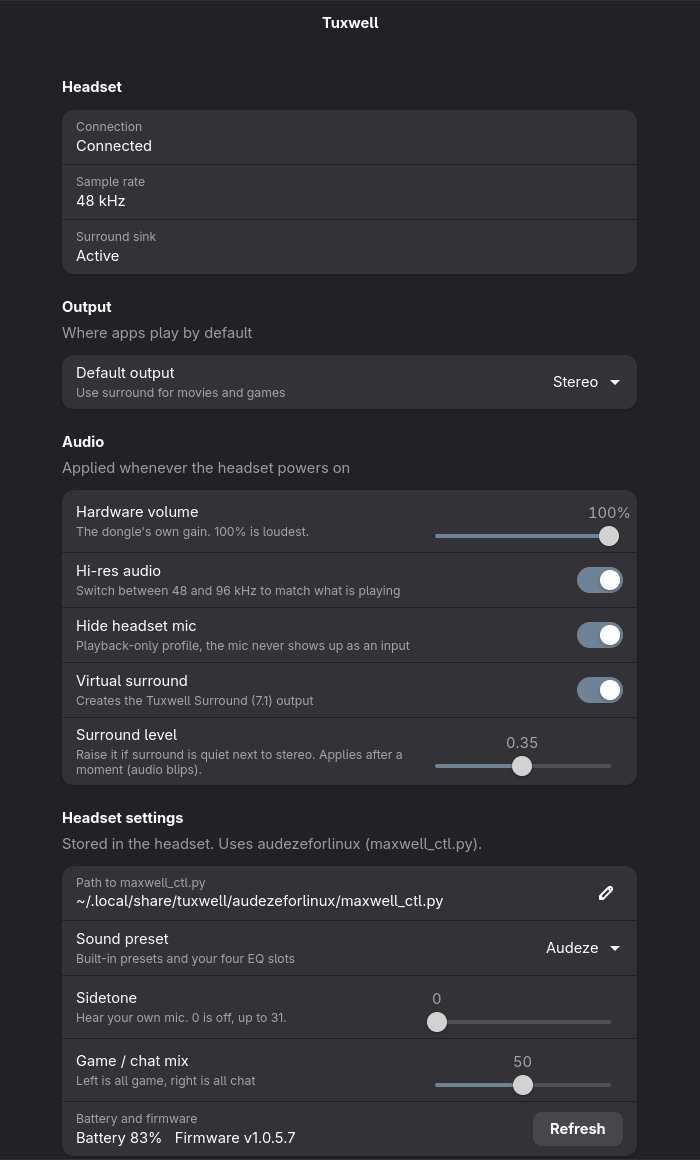
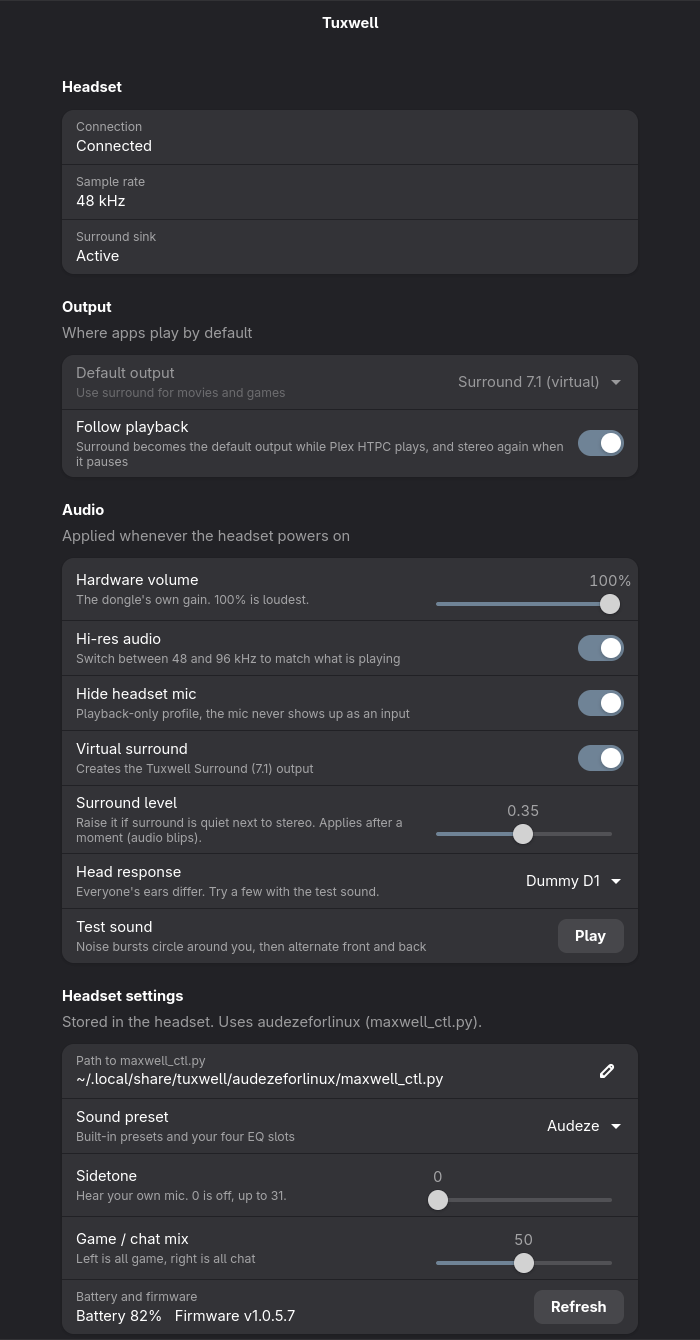
Choose your head response: 20 SADIE II sets, a picker in the app and a test sound
- data/hrtf-catalog.tsv: the 2 dummy heads and 18 people of SADIE II (Apache-2.0), each with a pinned SHA-256
- tuxwell-hrtf: list / use / fetch; downloads on demand, refuses anything that fails its checksum
- tuxwell-test-sound: noise bursts around the head, then front/back pairs, for comparing sets
- service renders the chosen file into the surround config; the app re-reads its settings before saving
- docs/HRTF.md: how to find the set that suits your ears

diff --git a/docs/HRTF.md b/docs/HRTF.md
@@ -1,0 +1,22 @@
+# Choosing a head response (HRTF)
+
+Virtual surround works by filtering each speaker's sound the way a head and ears would, from that direction. The filter depends on
+the shape of your head and ears, and everyone's differs. A set measured on someone whose ears resemble yours sounds convincing;
+a mismatched one can sound flat, tinny, or put rear sounds in front of you. Tuxwell ships the **SADIE II** database
+(University of York, Apache-2.0): **2 dummy heads (D1, D2; D1 is the default) and 18 people (H3 to H20)**. They download on demand (8 to 36 MB each) and
+are checked against a pinned SHA-256.
+
+## Find yours (about 5 minutes)
+1. Turn the headset on and open Tuxwell. In **Audio**, pick a set under **Head response** and press **Play** under *Test sound*.
+2. Listen to the two rounds:
+   - **Round 1** walks a circle: front, front-right, right, back-right, back-left, left, front-left. It should feel like a ring around your head, outside it.
+   - **Round 2** alternates front and back. A good match makes the back sounds clearly behind you. A poor one folds them to the front.
+3. Try a handful (start with D1, D2 and three or four people). Keep the one where front and back are easiest to tell apart and the sound stays out of your head.
+4. Confirm with something you know well (a film scene with rain or crowds, or a game with footsteps), then leave it for a few days.
+
+Command line: `tuxwell-hrtf list`, `tuxwell-hrtf use H5`, `tuxwell-test-sound`.
+
+## Notes
+- The result is subjective and personal. There is no single best set.
+- Surround level and centre boost interact with the chosen set. The level was matched on D1; another set can sound a little louder or quieter. Use the *Surround level* slider.
+- Switching restarts the surround for a second or two (audio blips).

diff --git a/README.md b/README.md
@@ -25,6 +25,7 @@ and does it only while the headset is powered on. Turn the headphones off and ev
 | **Proper volume** | Sets the dongle's own hardware gain. It idles around -20 dB, which is why the headset feels quiet. |
 | **Hi-res audio** | Lets PipeWire switch the dongle between 48 and 96 kHz, 24-bit, to match what plays (the dongle has no 44.1 kHz mode, so 44.1 material is converted to 48). It only switches when nothing else is playing at the old rate. |
 | **Virtual 7.1 surround** | A *Tuxwell Surround (7.1)* output that renders 5.1/7.1 to your headphones using the SADIE II HRTF. |
+| **Your own head response** | 20 openly licensed measured heads (SADIE II) you can try from the app, with a test sound that circles around you. Everyone's ears differ, so the right one matters. See [docs/HRTF.md](docs/HRTF.md). |
 | **Per-app surround** | Chosen apps (Plex HTPC by default) go to surround automatically, and the default output follows playback: surround while Plex plays, stereo when you pause, with one volume across both. |
 | **Mic out of the way** | Optional playback-only profile, so the headset mic never gets picked as an input by mistake. |
 | **Follows the headset** | Detects the headset powering on and off, even with the dongle always plugged in. |
@@ -67,6 +68,7 @@ These live inside the headset and need two things:
 | Key | Default | Meaning |
 |---|---|---|
 | `HW_VOLUME` | `86` | Dongle gain, 0 to 96 (1 step = 1 dB, 96 = loudest) |
+| `HRTF` | `D1_48K_24bit_256tap_FIR_SOFA.sofa` | Head-response file in use. Change it with `tuxwell-hrtf use <id>` or in the app. |
 | `HIRES` | `1` | Allow 48 / 96 kHz switching |
 | `DISABLE_MIC` | `1` | Playback-only card profile |
 | `SURROUND_ENABLED` | `1` | Create the surround output |
